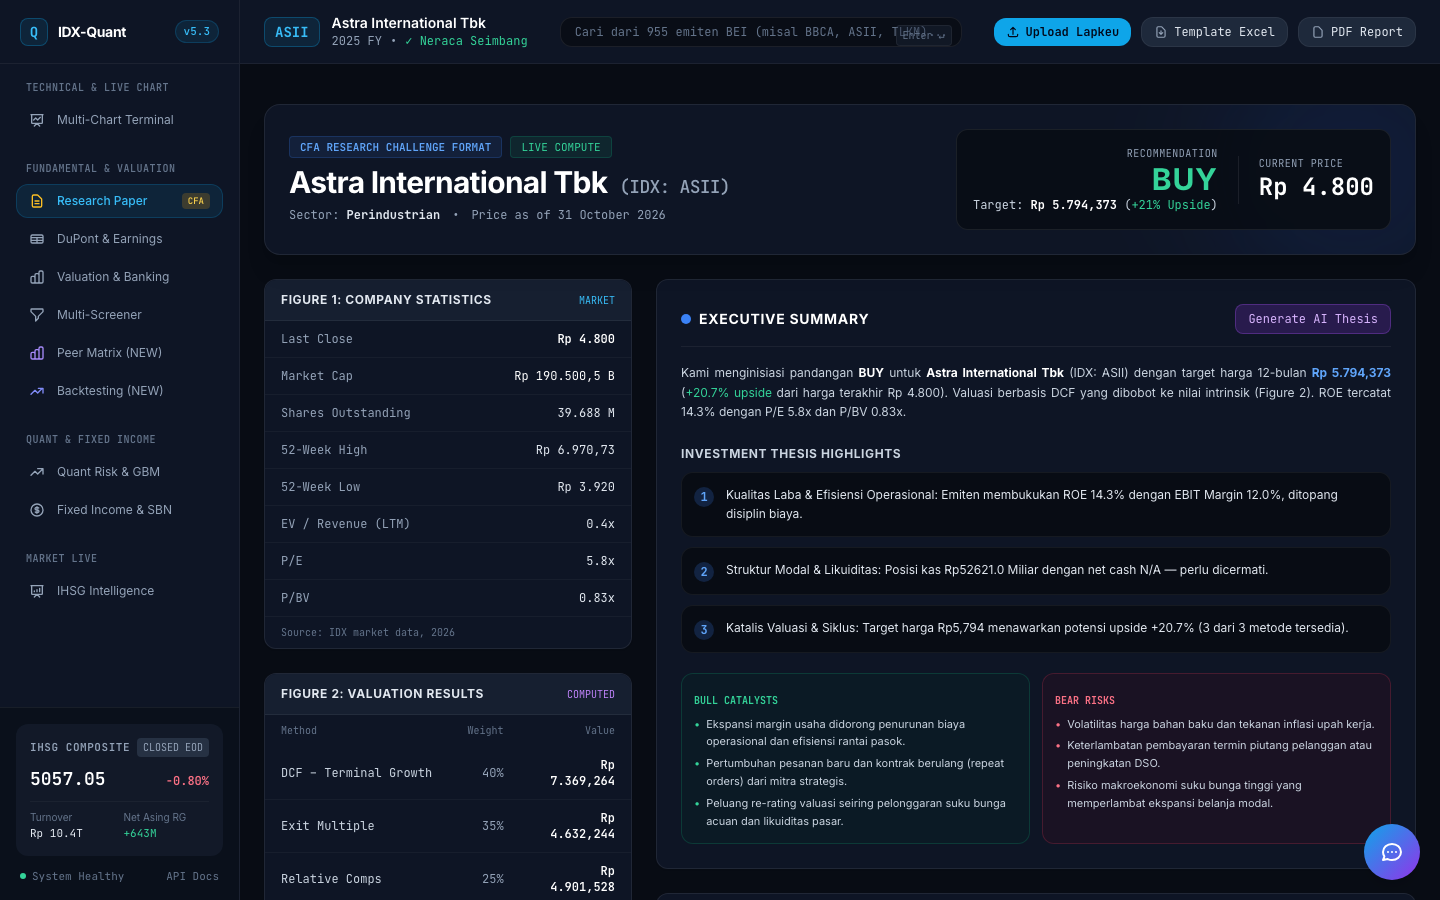
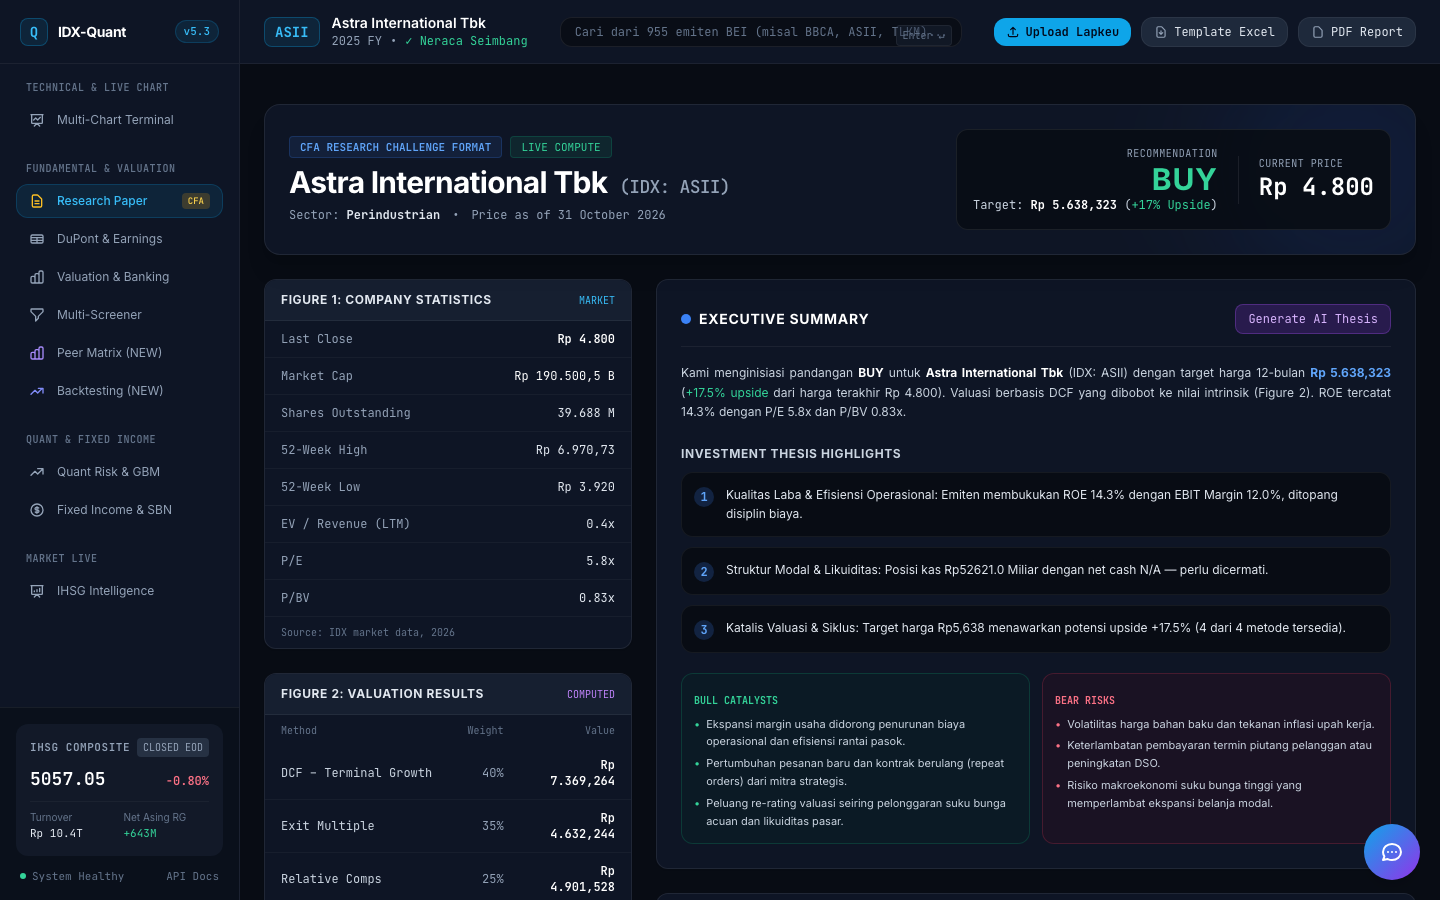
feat: EV/EBITDA sektor, harga fallback histori, filter outlier valuasi
- PTBA/ITMG/MYOR: punya 1.403 baris histori tapi QuoteLatest kosong ->
  SELURUH valuasi N/A. _latest_price() fallback ke bar historis terakhir
- Hapus fallback harga Rp5.000 karangan di endpoint Monte Carlo & Risk
  (simulasi dari harga fiktif); sekarang 404 jujur bila tidak ada harga
- Metode ke-4: EV/EBITDA sektor (paling tahan siklus komoditas); bobot
  DCF turun 40% -> 30%
- Fallback peer: emiten sektor sama yang PUNYA harga (ANTM -73,7% -> +38,5%)
- Filter outlier median PE(2-60) / PBV(0,2-15) / EV-EBITDA(1-40):
  MYOR rel_fv Rp9.763 (7x harga) -> Rp1.638
- Ratio guard: relative valuation ditolak bila menyimpang >2x

Changed region(s): [[0.5, 0.4044, 0.9688, 0.4667], [0.6562, 0.6844, 0.9375, 0.7156]]

diff --git a/app/services/research_paper_engine.py b/app/services/research_paper_engine.py
@@ -329,7 +329,7 @@ def build_research_model_from_context(
     # `dcf["pe_reference"]` yang tidak pernah dikirim -> keduanya SELALU None,
     # sehingga blended target = 100% DCF (tidak ada pembanding, dampening mati).
     # Sekarang: median PE/PBV dari peer riil di DB (emiten satu sektor).
-    _sector_pe = _sector_pbv = None
+    _sector_pe = _sector_pbv = _sector_ev_ebitda = None
     _peer_n = 0
     try:
         from sqlmodel import Session as _S3, select as _sel3
@@ -341,15 +341,24 @@ def build_research_model_from_context(
             # Emiten kecil/sector langka tidak punya daftar peer terkurasi.
             # Fallback: emiten LAIN di sektor yang sama dari DB (riil, bukan
             # daftar karangan) — maksimal 6.
-            _sect = (audited_fy or {}).get("sector")
+            _sect = (audited_fy or _bfy or {}).get("sector")
             if _sect:
                 with _S3(_eng3) as _s3b:
-                    _peer_tks = [
+                    # Hanya emiten yang PUNYA harga (bisa dihitung multiple).
+                    # Prioritaskan yang punya EPS & shares agar PE/PBV/EV valid.
+                    _cand = [
                         r_.ticker for r_ in _s3b.exec(
                             _sel3(_FSC).where(_FSC.sector == _sect)
                             .where(_FSC.ticker != ticker.upper())
                         ).all()
-                    ][:6]
+                    ]
+                    _uniq = []
+                    for _t in _cand:
+                        if _t in _uniq:
+                            continue
+                        if _s3b.get(_QL, _t):
+                            _uniq.append(_t)
+                    _peer_tks = _uniq[:8]
         if _peer_tks:
             _pes, _pbvs = [], []
             with _S3(_eng3) as _s3:
@@ -368,16 +377,38 @@ def build_research_model_from_context(
                             _bvps = (_row.total_equity_parent * 1e9) / _sh
                             if _bvps > 0:
                                 _pbvs.append(_q.price / _bvps)
-            def _med(v):
-                v = sorted(x for x in v if x and 0 < x < 500)
+            def _med(v, lo=0.0, hi=500.0):
+                # Filter outlier: PBV/PE ekstrem (emiten ekuitas tipis, laba
+                # hampir nol) akan menyeret median dan menghasilkan nilai wajar
+                # mustahil (MYOR rel_fv Rp9.763 = 7x harga).
+                v = sorted(x for x in v if x and lo < x < hi)
                 if not v:
                     return None
                 n = len(v)
                 return v[n // 2] if n % 2 else (v[n // 2 - 1] + v[n // 2]) / 2.0
-            _sector_pe, _sector_pbv = _med(_pes), _med(_pbvs)
-            _peer_n = max(len(_pes), len(_pbvs))
+            # EV/EBITDA sektor — metode yang paling tahan siklus komoditas:
+            # EBIT historis membuat ANTM -73% / ADRO +105% karena harga
+            # komoditas sudah berubah jauh dari rata-rata 3 tahun.
+            _evs = []
+            for _pt in _peer_tks:
+                _prow = _s3.exec(_sel3(_FSC).where(_FSC.ticker == _pt)
+                                 .order_by(_FSC.year.desc())).first()
+                _pq = _s3.get(_QL, _pt)
+                if not (_prow and _pq and _pq.price and _pq.price > 0):
+                    continue
+                _psh = _prow.shares_outstanding
+                _pebitda = ((_prow.ebit or 0) + abs(_prow.depreciation or 0)) if _prow.ebit else None
+                if not (_psh and _psh > 0 and _pebitda and _pebitda > 0):
+                    continue
+                _pmcap = (_pq.price * _psh) / 1e9
+                _pnet = (_prow.total_liabilities or 0) - (_prow.cash_and_equivalents or 0)
+                if _pmcap + _pnet > 0:
+                    _evs.append((_pmcap + _pnet) / _pebitda)
+            _sector_pe, _sector_pbv = _med(_pes, 2.0, 60.0), _med(_pbvs, 0.2, 15.0)
+            _sector_ev_ebitda = _med(_evs, 1.0, 40.0)
+            _peer_n = max(len(_pes), len(_pbvs), len(_evs))
     except Exception:
-        _sector_pe = _sector_pbv = None
+        _sector_pe = _sector_pbv = _sector_ev_ebitda = None
 
     # Exit-multiple: EPS x median PE sektor (bila tersedia dari peer riil)
     exit_fv = None
@@ -393,7 +424,29 @@ def build_research_model_from_context(
     if not (isinstance(_pbv_just, (int, float)) and _pbv_just > 0):
         _pbv_just = _sector_pbv      # median PBV peer riil
     if pbv and pbv > 0 and isinstance(_pbv_just, (int, float)) and _pbv_just > 0 and curr_p:
-        rel_fv = curr_p * (float(_pbv_just) / pbv)
+        _ratio = float(_pbv_just) / pbv
+        # Median PBV dari sampel tipis (1-2 peer) tidak dapat dipercaya bila
+        # menyimpang >2x. Tolak -> N/A, jangan sajikan nilai wajar mustahil.
+        rel_fv = curr_p * _ratio if 0.5 <= _ratio <= 2.0 else None
+
+    # EV/EBITDA sektor: nilai wajar = (EBITDA x multiple sektor - net debt) / shares.
+    # Metode ini paling tahan siklus karena EBITDA tidak terpengaruh D&A dan
+    # harga komoditas sudah tercermin di multiple pasar, bukan di EBIT historis.
+    ev_ebitda_fv = None
+    try:
+        _ebitda_self = None
+        _eb = (audited_fy or {}).get("ebit_bn")
+        _da = (audited_fy or {}).get("depreciation_amortization_bn")
+        if _eb is not None:
+            _ebitda_self = _eb + abs(_da or 0)
+        if _ebitda_self and _ebitda_self > 0 and _sector_ev_ebitda and shares_m and curr_p:
+            _nd = ((debt_bn or 0) - (cash_bn or 0))
+            _eq_val = (_ebitda_self * _sector_ev_ebitda) - _nd
+            _ev_fv = (_eq_val * 1e9) / (shares_m * 1e6)
+            if _ev_fv > 0:
+                ev_ebitda_fv = _ev_fv
+    except Exception:
+        ev_ebitda_fv = None
 
     # Blended Target Price — bobot dinormalisasi dari komponen yang TERSEDIA.
     # Jangan pernah menghasilkan target dari komponen yang tidak ada.
@@ -415,18 +468,24 @@ def build_research_model_from_context(
                              "enterprise value (equity value negatif)")
 
     _dcf_ok, _exit_ok, _rel_ok = _plausible(dcf_fv), _plausible(exit_fv), _plausible(rel_fv)
+    _ev_ok = _plausible(ev_ebitda_fv)
 
     # Bila DCF menyimpang >40% dari median metode lain, ia kemungkinan besar
     # artefak asumsi (ΔWC nol, D&A tidak dilaporkan). Turunkan bobotnya alih-alih
     # membuangnya, agar blended target tidak ditarik ke satu ekstrem.
-    _others = [v for v, ok in ((exit_fv, _exit_ok), (rel_fv, _rel_ok)) if ok]
+    _others = [v for v, ok in ((exit_fv, _exit_ok), (rel_fv, _rel_ok),
+                               (ev_ebitda_fv, _ev_ok)) if ok]
     if _dcf_ok and _others:
         _med = sorted(_others)[len(_others) // 2]
         if _med > 0 and abs(dcf_fv - _med) / _med > 0.40:
             dcf_fv = (dcf_fv + _med) / 2.0
-    _parts = [(0.40, dcf_fv if _dcf_ok else None),
-              (0.35, exit_fv if _exit_ok else None),
-              (0.25, rel_fv if _rel_ok else None)]
+    # Bobot: DCF 30%, Exit PE 25%, EV/EBITDA 25%, Relative PBV 20%.
+    # DCF diturunkan dari 40% karena EBIT historis lemah untuk siklikal;
+    # EV/EBITDA masuk justru untuk mengoreksi bias itu.
+    _parts = [(0.30, dcf_fv if _dcf_ok else None),
+              (0.25, exit_fv if _exit_ok else None),
+              (0.25, ev_ebitda_fv if _ev_ok else None),
+              (0.20, rel_fv if _rel_ok else None)]
     target_price = None
     upside_pct = None
     _avail = [(w, v) for w, v in _parts if v is not None and v > 0]
@@ -443,7 +502,7 @@ def build_research_model_from_context(
         _wsum = sum(w for w, _ in _avail)
         target_price = sum(w * v for w, v in _avail) / _wsum
         upside_pct = ((target_price - curr_p) / curr_p) * 100.0
-        _basis = f"{len(_avail)} dari 3 metode tersedia"
+        _basis = f"{len(_avail)} dari 4 metode tersedia"
         # Upside ekstrem (>75%) hampir selalu karena harga pasar sudah turun
         # jauh dari rata-rata historis yang dipakai model, bukan karena
         # emiten benar-benar 2x undervalued. Nyatakan apa adanya.

diff --git a/app/main.py b/app/main.py
@@ -598,8 +598,12 @@ async def get_monte_carlo_json(ticker: str, session: Session = Depends(get_sessi
         raise HTTPException(status_code=404, detail=f"Ticker {ticker} belum ada di cache.")
     
     # Ambil harga terkini jika ada
-    ql = session.get(QuoteLatest, ticker.upper())
-    ref_p = float(ql.price) if (ql and ql.price) else 5000.0
+    # ZERO-FAKE: dulu fallback Rp5.000 (harga karangan) untuk emiten tanpa
+    # quote -> simulasi Monte Carlo dari harga fiktif. Sekarang N/A.
+    ref_p = _latest_price(session, ticker.upper())
+    if not ref_p:
+        raise HTTPException(status_code=404,
+                            detail=f"Harga {ticker.upper()} tidak tersedia — simulasi tidak dijalankan.")
 
     result = run_monte_carlo_gbm(
         current_price=ref_p,
@@ -617,8 +621,7 @@ async def get_risk_json(ticker: str, session: Session = Depends(get_session)):
     if not curr_stmt:
         raise HTTPException(status_code=404, detail=f"Ticker {ticker} belum ada di cache.")
     
-    ql = session.get(QuoteLatest, ticker.upper())
-    ref_p = float(ql.price) if (ql and ql.price) else 5000.0
+    ref_p = _latest_price(session, ticker.upper())
 
     # RISK METRICS: JANGAN gunakan data sintetis - hanya hitung dari data pasar real
     risk_m = None
@@ -809,14 +812,10 @@ async def export_research_paper_pdf(ticker: str, session: Session = Depends(get_
     _sh_raw = _shares_from_stmt(curr_stmt)
     shares_m = (_sh_raw / 1e6) if _sh_raw > 0 else None
 
-    current_price = None
-    try:
-        ql = session.get(QuoteLatest, ticker_upper)
-        if ql and ql.price and ql.price > 0:
-            current_price = ql.price
-    except Exception:
-        pass
-        
+    # Harga: QuoteLatest, fallback ke bar historis terakhir (PTBA/ITMG tidak
+    # punya baris QuoteLatest padahal punya 1.403 bar histori).
+    current_price = _latest_price(session, ticker_upper)
+
     dcf_res = None
     try:
         # PARAMETER RIIL, bukan default: beta dari regresi vs IHSG (fallback 1,0
@@ -1282,6 +1281,31 @@ async def api_post_peer_matrix(ticker: str, req: dict = None):
         return result
     except Exception as e:
         return {"error": str(e)}
+
+
+def _latest_price(session, ticker: str):
+    """Harga terakhir: QuoteLatest, fallback ke bar historis terakhir.
+
+    PTBA/ITMG punya 1.403 baris QuoteHistoryDaily tapi TIDAK ada baris
+    QuoteLatest -> seluruh valuasi jadi N/A padahal datanya ada.
+    """
+    try:
+        ql = session.get(QuoteLatest, ticker)
+        if ql and ql.price and ql.price > 0:
+            return float(ql.price)
+    except Exception:
+        pass
+    try:
+        from sqlmodel import select as _sel
+        from app.db.models import QuoteHistoryDaily as _Q
+        row = session.exec(
+            _sel(_Q).where(_Q.ticker == ticker).order_by(_Q.date.desc())
+        ).first()
+        if row and row.close and row.close > 0:
+            return float(row.close)
+    except Exception:
+        pass
+    return None
 
 
 def _shares_from_stmt(stmt) -> float:
